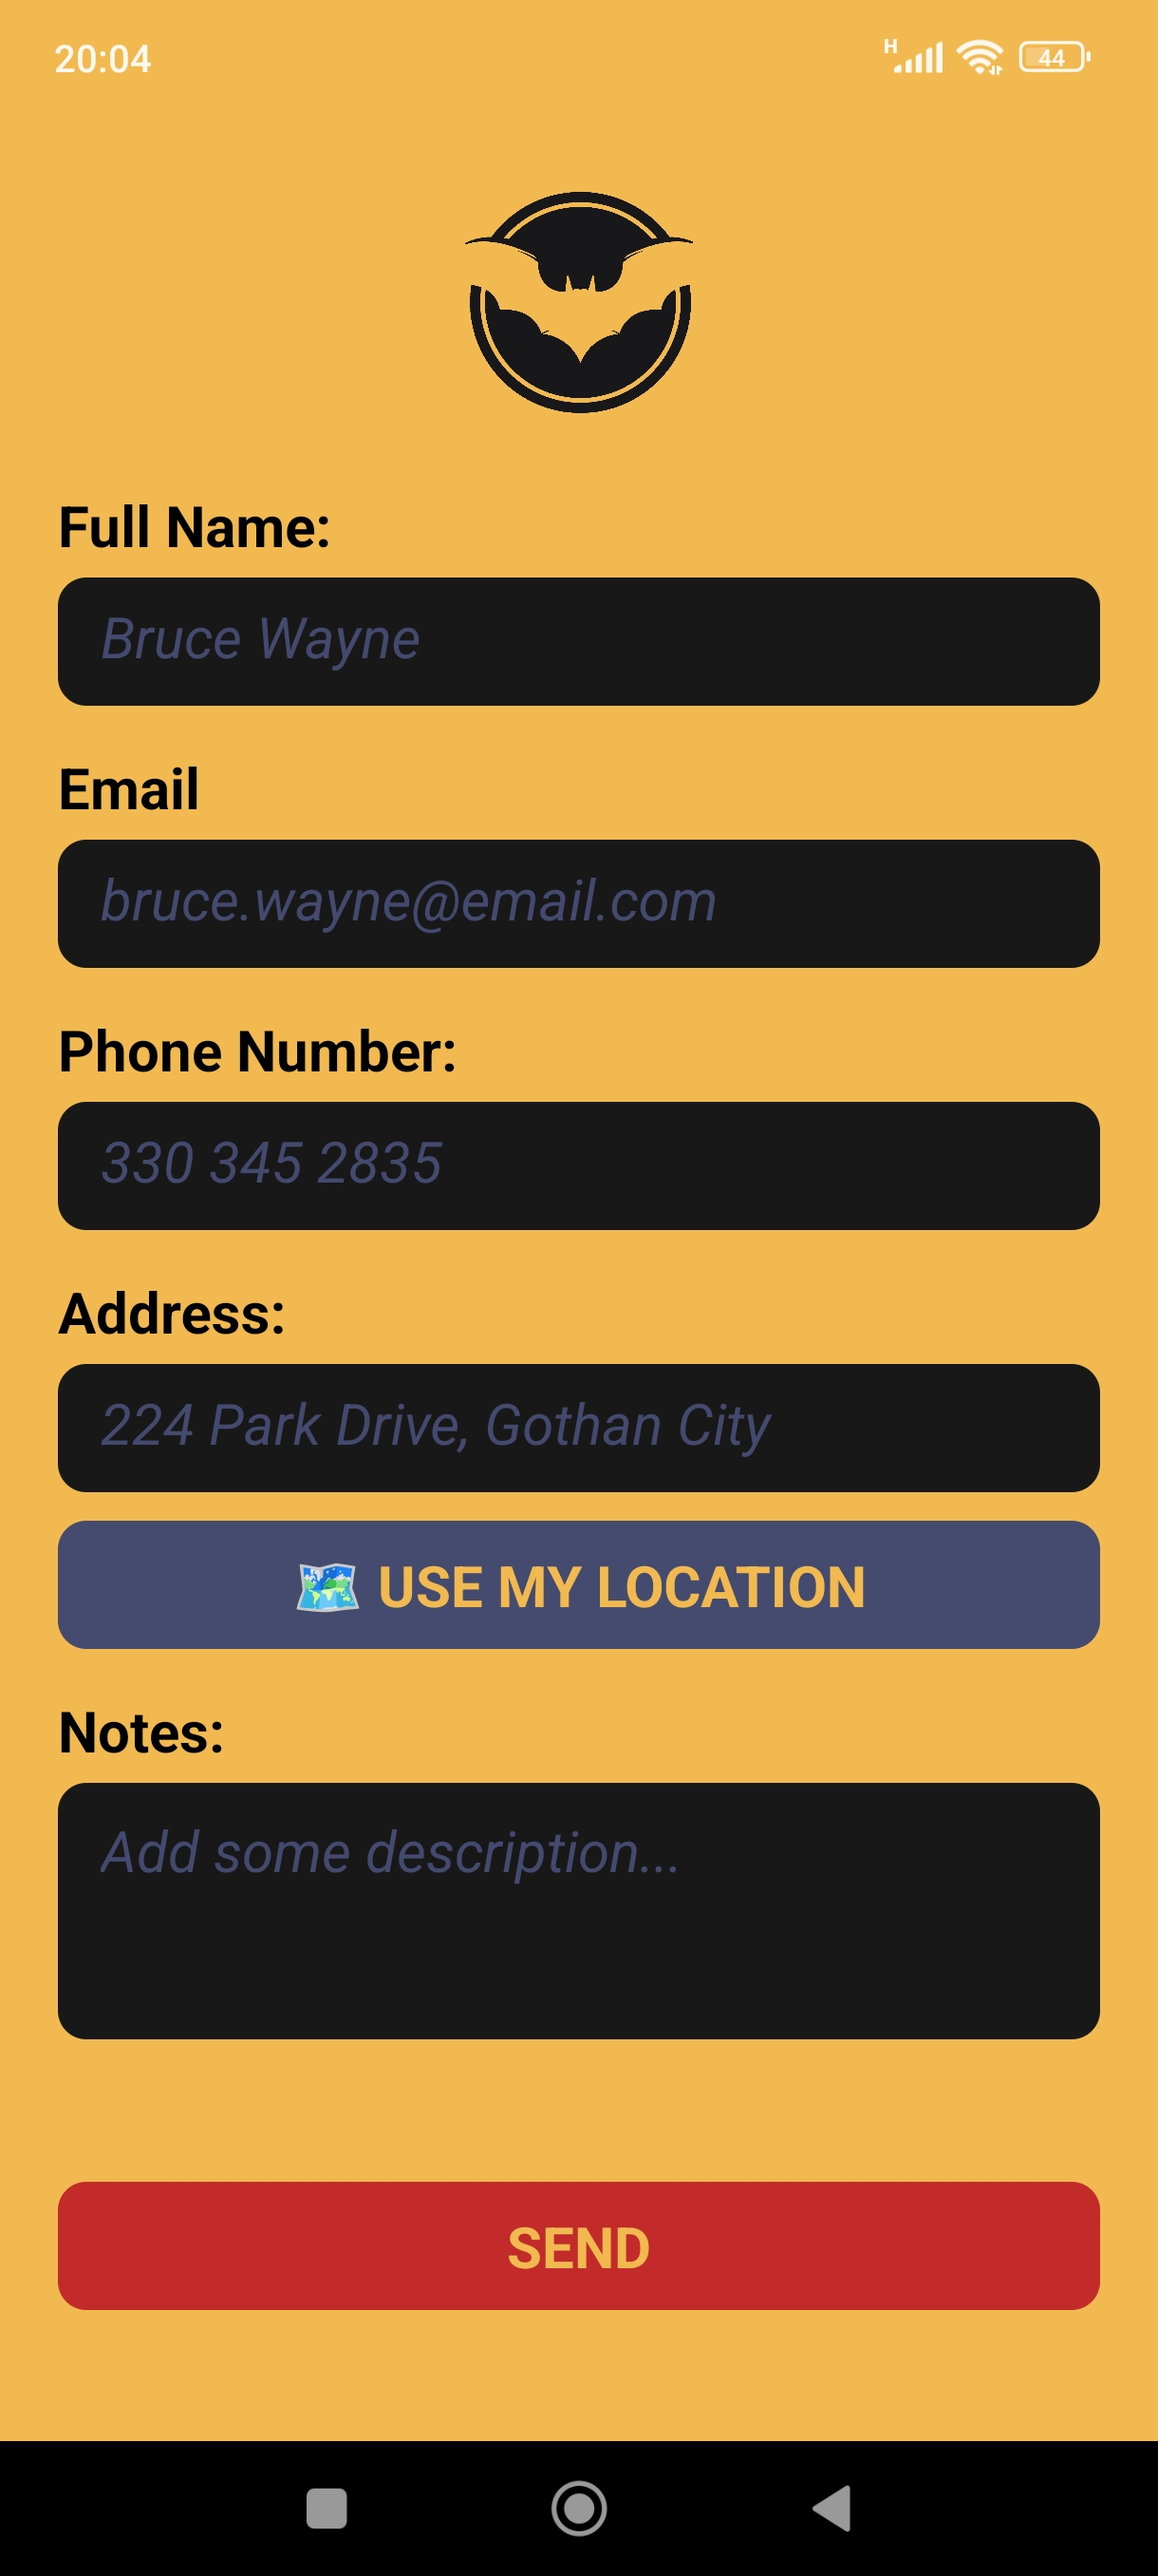
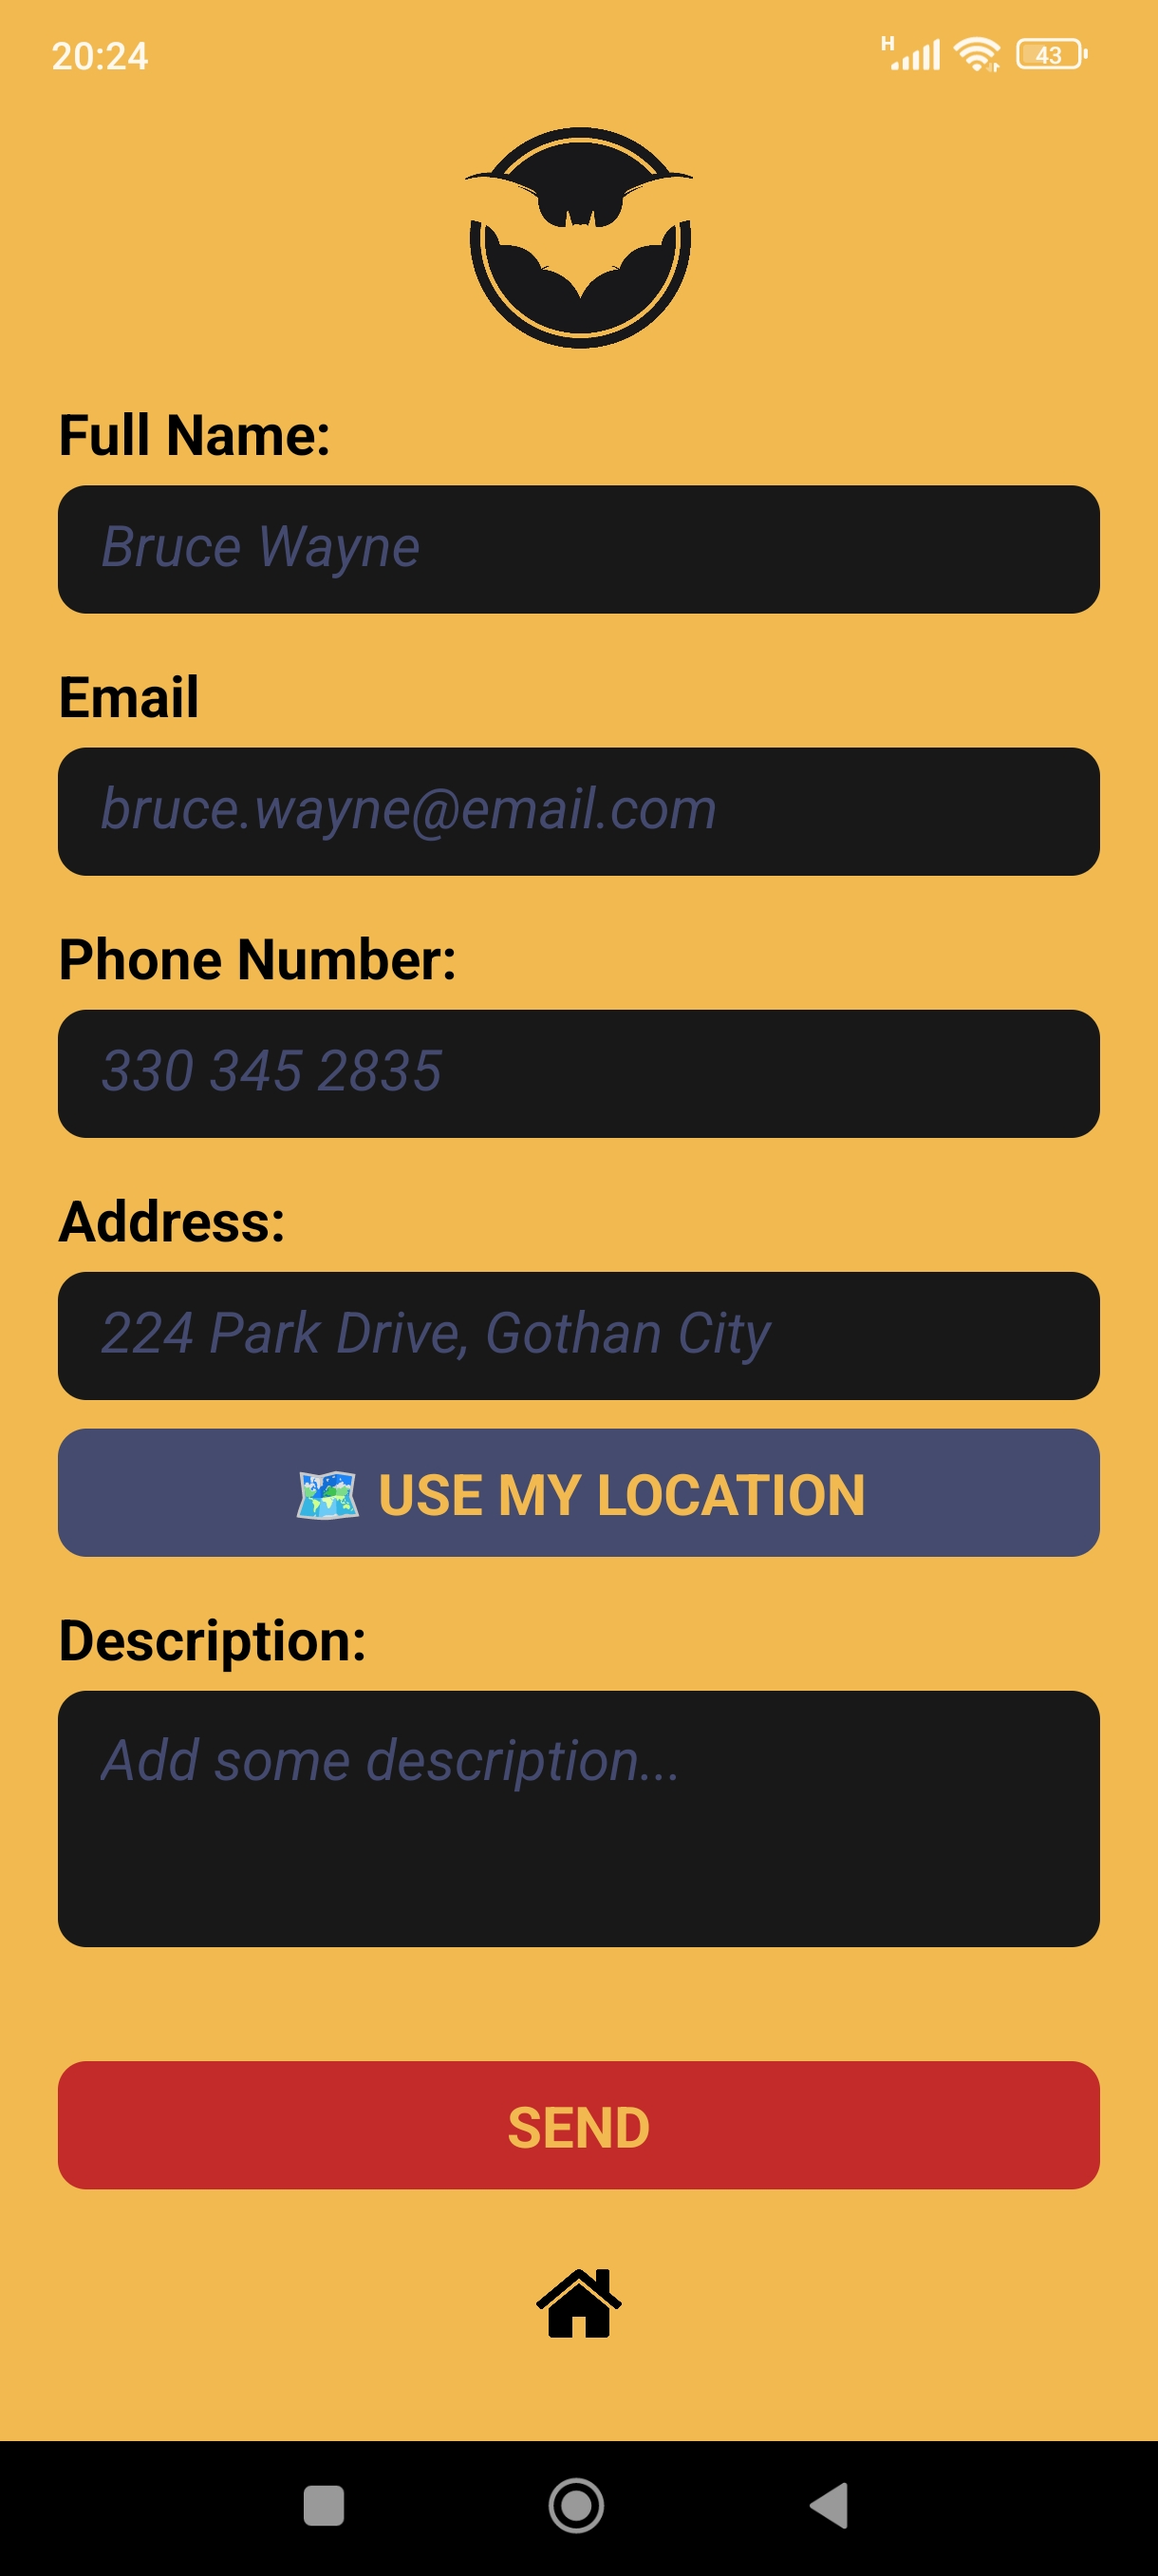
updated form screen and README

diff --git a/src/screens/BatFormScreenStyles.tsx b/src/screens/BatFormScreenStyles.tsx
@@ -11,8 +11,7 @@ export const styles = StyleSheet.create({
   image: {
     width: 80,
     height: 80,
-    marginTop: 20,
-    marginBottom: 10,
+    marginTop: 10,
   },
   text: {
     fontSize: 20,
@@ -48,7 +47,7 @@ export const styles = StyleSheet.create({
     width: "90%",
     height: 45,
     backgroundColor: "#c22a2a",
-    marginTop: 50,
+    marginTop: 40,
     borderRadius: 10,
     textAlign: "center",
     textAlignVertical: "center",
@@ -56,7 +55,7 @@ export const styles = StyleSheet.create({
     fontWeight: "bold",
     color: "#f1b950",
   },
-  notes: {
+  description: {
     width: "90%",
     height: 90,
     backgroundColor: "#181719",
@@ -66,5 +65,10 @@ export const styles = StyleSheet.create({
     paddingHorizontal: 15,
     borderRadius: 10,
     color: "#f1b950",
+  },
+  homeButton: {
+    width: 30,
+    height: 30,
+    marginTop: 25,
   },
 });

diff --git a/src/screens/BatFormScreen.tsx b/src/screens/BatFormScreen.tsx
@@ -37,13 +37,17 @@ export function BatFormScreen() {
         placeholderTextColor="#44496f"
       ></TextInput>
       <Text style={styles.button}>🗺 USE MY LOCATION</Text>
-      <Text style={styles.text}>Notes:</Text>
+      <Text style={styles.text}>Description:</Text>
       <TextInput
-        style={styles.notes}
+        style={styles.description}
         placeholder="Add some description..."
         placeholderTextColor="#44496f"
       ></TextInput>
       <Text style={styles.sendButton}>SEND</Text>
+      <Image
+        style={styles.homeButton}
+        source={require("../../assets/home.png")}
+      ></Image>
     </View>
   );
 }
